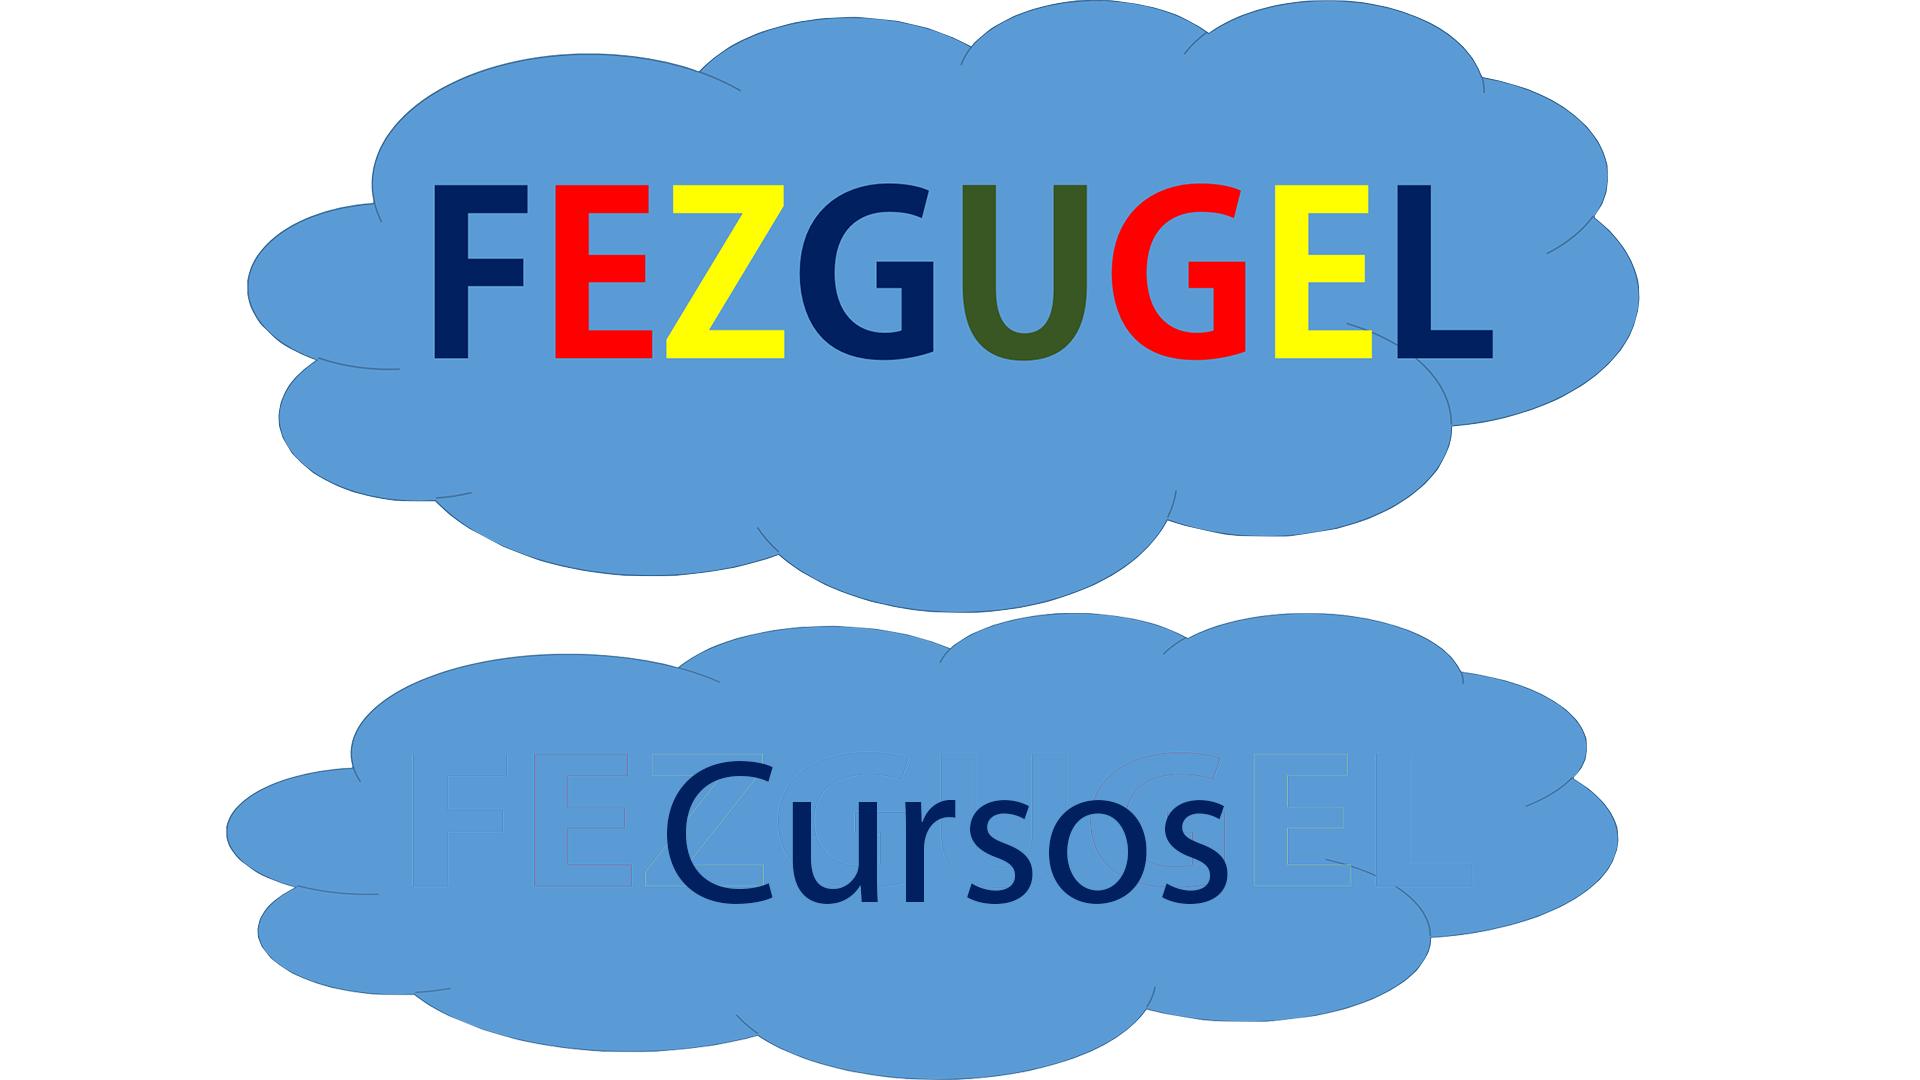
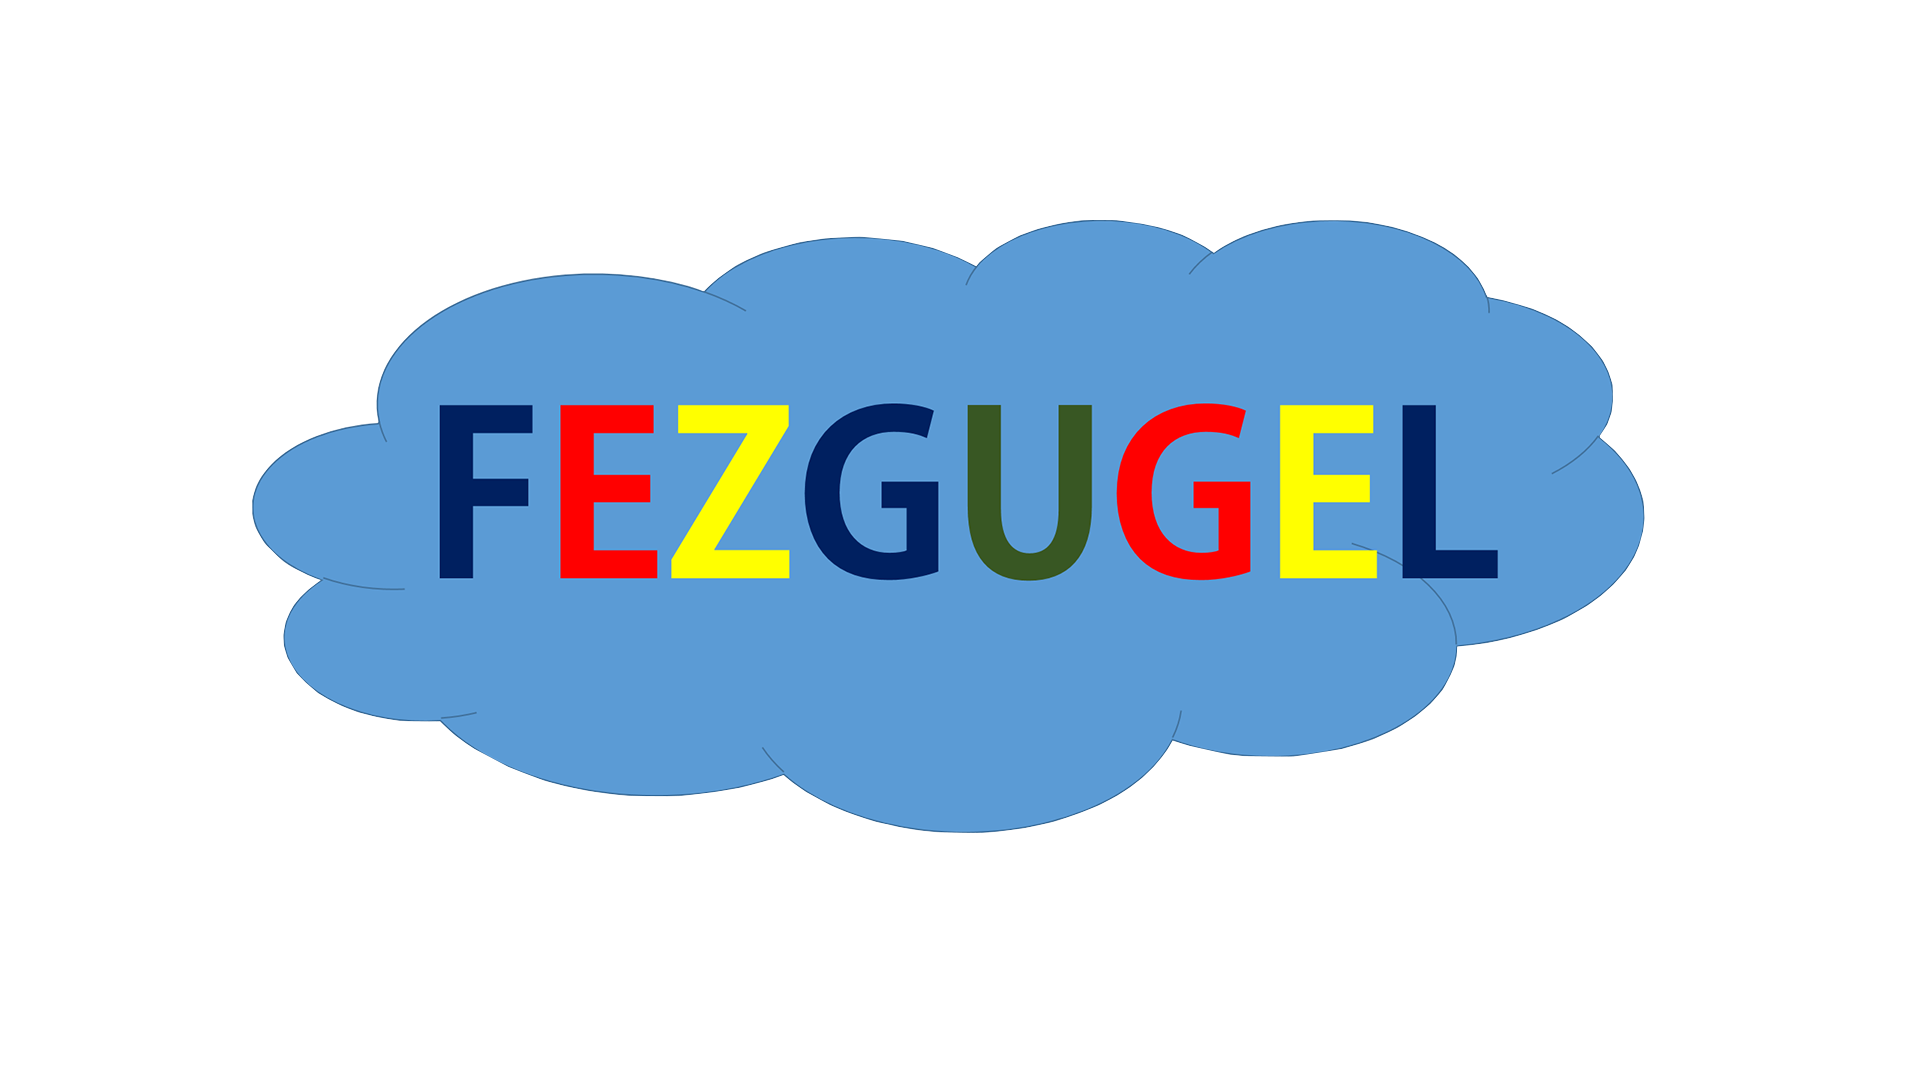
fezgugel 2.0

diff --git a/index.html b/index.html
@@ -22,10 +22,9 @@
 <tr>
 <td width="100" align="center"><img src="fezgugel.png" width="100" height="100" "fezgugel.png" /></td>
 <td width="130" align="center"></td>
-<td width="130" align="center">Inicio</td>
-<td width="130" align="center">Nosotros</td>
-<td width="130" align="center">Cursos</td>
-<td width="130" align="center">Iniciar Sesion</td>
+<td width="130" align="center">Start</td>
+<td width="130" align="center">About</td>
+<td width="130" align="center">Software</td>
 </tr>
 </table>
 </div>
@@ -37,7 +36,7 @@
 <table width="100%">
   <tr>
 <td width="20%" align="center"></td>
-<td width="20%" align="center"><h1>Personal Responsable</h1></td>
+<td width="20%" align="center"><h1>What is fezgugel?</h1></td>
 <td width="20%" align="center"></td>
 </tr>
 </table>
@@ -45,11 +44,9 @@
 <table width="100%"  >
 
 <tr>
-<td width="20%" align="center"><img width="200" height="200" src="fezgugel.png"/></td>
- <td data-aos="fade-right"
-    data-aos-offset="300"
-    data-aos-easing="ease-in-sine" width="21%" align="center"><img width="500" height="200" src="certificadotarot.jpg"/></td>
-	<td width="20%" align="center"></td>
+<td width="35%" align="center"><img width="200" height="200" src="fezgugel.png"/></td>
+ <td><h2>Fezgugel is a legally registered trademark worldwide with permission to be used for the creation of advanced software, technological articles, videos, technology websites, as well as digital products and also high-tech video editing in the industry.</h2></td>
+	<td width="35%" align="center"></td>
 </tr>
 
 
@@ -58,7 +55,7 @@
 <table width="100%">
   <tr>
 <td width="20%" align="center"></td>
-<td width="20%" align="center"><h1>Instituto Fezgugel aprender es tu poder</h1></td>
+<td width="20%" align="center"><h1>Software Fezgugel</h1></td>
 <td width="20%" align="center"></td>
 </tr>
 </table>
@@ -67,40 +64,15 @@
   <tr>
     <td data-aos="fade-right"
     data-aos-offset="300"
-    data-aos-easing="ease-in-sine" width="100%" align="center"><img width="85%" height="85%" src="esfm48.JPG"/></td>
+    data-aos-easing="ease-in-sine" width="100%" align="center"><img width="85%" height="85%" src="software engineer fezgugel.png"/></td>
     </tr>
     <tr>
       <td data-aos="fade-right"
       data-aos-offset="300"
-      data-aos-easing="ease-in-sine" width="100%" align="center"><img width="85%" height="85%" src="algebra48.JPG"/></td>
+      data-aos-easing="ease-in-sine" width="100%" align="center"></td>
       </tr>
-      <tr>
-        <td data-aos="fade-right"
-        data-aos-offset="300"
-        data-aos-easing="ease-in-sine" width="100%" align="center"><img width="85%" height="85%" src="calculo48.JPG"/></td>
-        </tr>
-<tr>
-<td data-aos="fade-right"
-data-aos-offset="300"
-data-aos-easing="ease-in-sine" width="100%" align="center"><img width="85%" height="85%" src="esfmmaterial.JPG"/></td>
-</tr>
-<tr>
-<td data-aos="fade-right"
-data-aos-offset="300"
-data-aos-easing="ease-in-sine" width="100%" align="center"><img width="85%" height="85%" src="anapol48.JPG" /></td>
-</tr>
-<tr>
-<td data-aos="fade-right"
-data-aos-offset="300"
-data-aos-easing="ease-in-sine" width="100%" align="center"><img width="85%" height="85%" src="colmil48.JPG"/></td>
-</tr>
-<tr>
-<td data-aos="fade-right"
-data-aos-offset="300"
-data-aos-easing="ease-in-sine" width="100%" align="center"><img width="85%" height="85%" src="incos48.JPG" /></td>
-</tr>
-<td width="100%" align="center"><img width="250" height="285" src="wasapcurso.jpg"/></td>
-</tr>
+      
+
 
 </table>
 </div>
